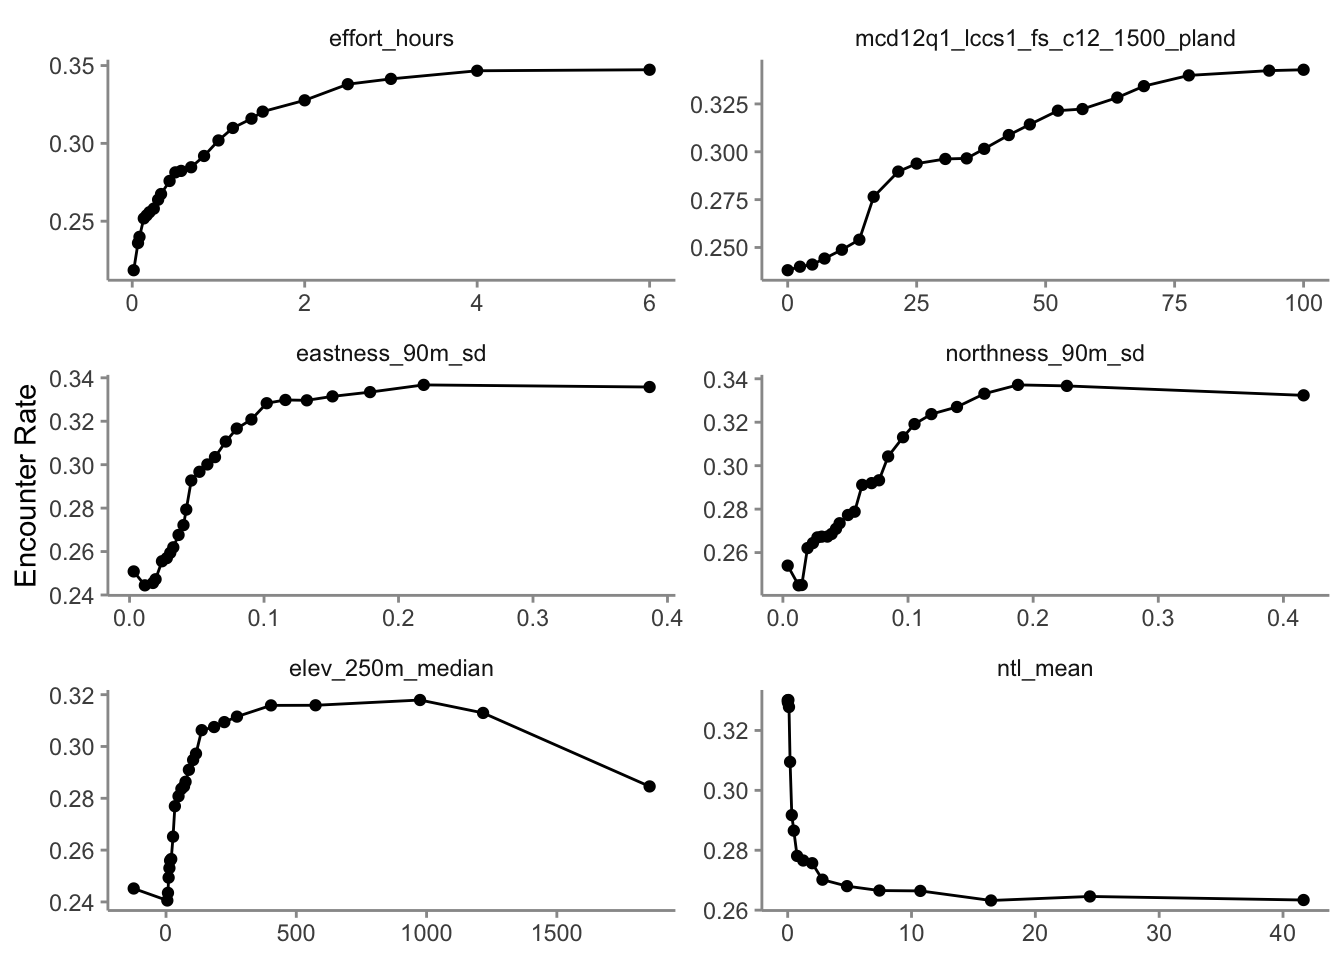
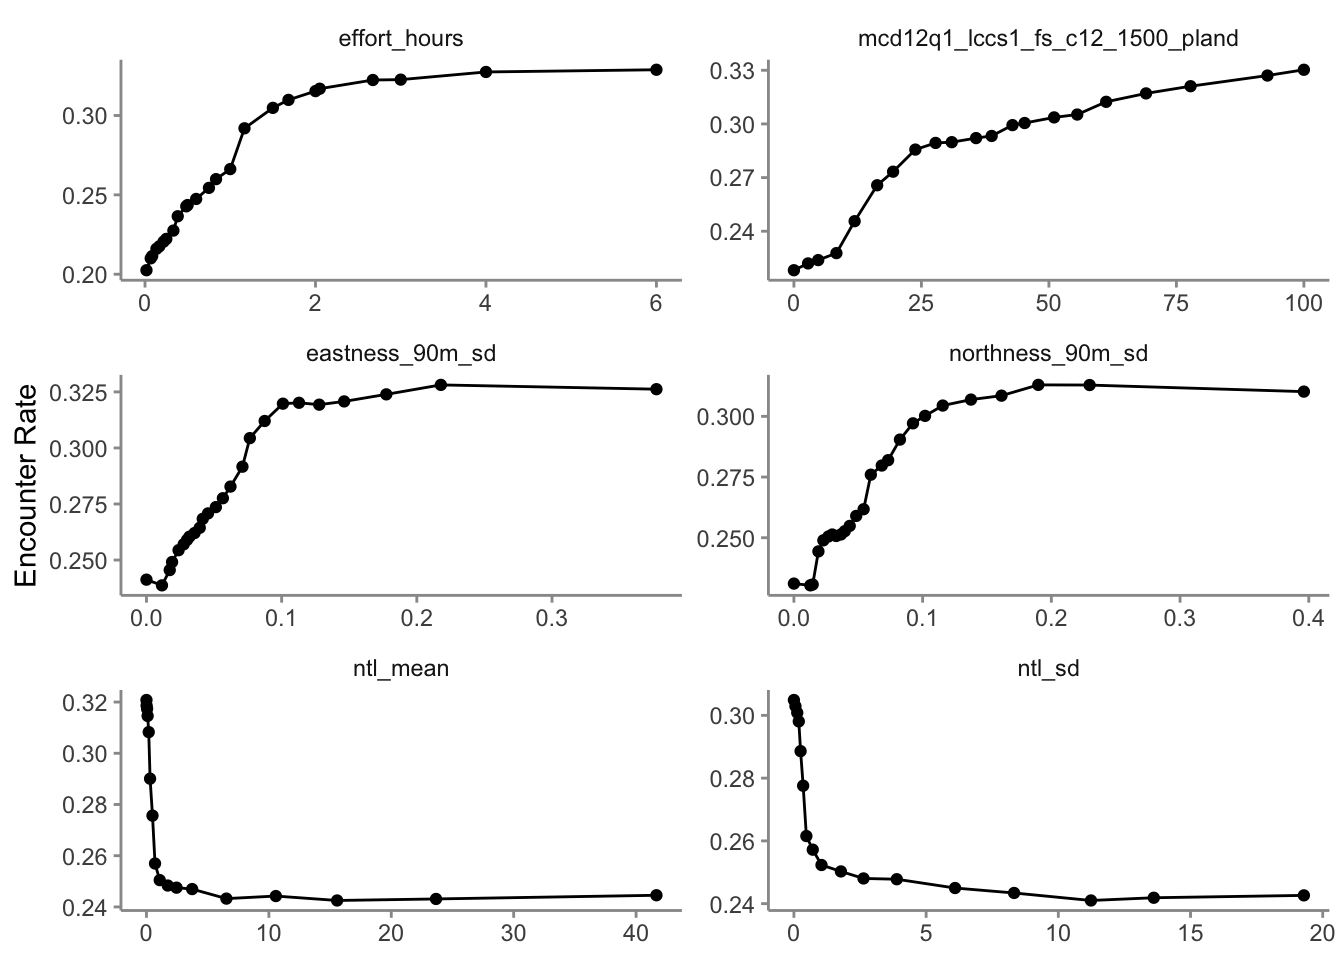
bug fixes

diff --git a/docs/abundance.html b/docs/abundance.html
@@ -281,7 +281,7 @@ code span.wa { color: #60a0b0; font-weight: bold; font-style: italic; } /* Warni
 <div class="sourceCode cell-code" id="cb2"><pre class="sourceCode r code-with-copy"><code class="sourceCode r"><span id="cb2-1"><a href="#cb2-1" aria-hidden="true" tabindex="-1"></a>checklists <span class="ot">&lt;-</span> checklists <span class="sc">%&gt;%</span> </span>
 <span id="cb2-2"><a href="#cb2-2" aria-hidden="true" tabindex="-1"></a>  <span class="fu">filter</span>(</span>
 <span id="cb2-3"><a href="#cb2-3" aria-hidden="true" tabindex="-1"></a>    <span class="co"># last 10 years of data</span></span>
-<span id="cb2-4"><a href="#cb2-4" aria-hidden="true" tabindex="-1"></a>    year <span class="sc">&gt;=</span> <span class="dv">2013</span>,</span>
+<span id="cb2-4"><a href="#cb2-4" aria-hidden="true" tabindex="-1"></a>    year <span class="sc">&gt;=</span> <span class="dv">2007</span>,</span>
 <span id="cb2-5"><a href="#cb2-5" aria-hidden="true" tabindex="-1"></a>    <span class="co"># jan-feb</span></span>
 <span id="cb2-6"><a href="#cb2-6" aria-hidden="true" tabindex="-1"></a>    day_of_year <span class="sc">&gt;=</span> <span class="dv">1</span>, day_of_year <span class="sc">&lt;=</span> <span class="dv">59</span>,</span>
 <span id="cb2-7"><a href="#cb2-7" aria-hidden="true" tabindex="-1"></a>    <span class="co"># effort filters</span></span>
@@ -312,7 +312,7 @@ code span.wa { color: #60a0b0; font-weight: bold; font-style: italic; } /* Warni
 <span id="cb4-3"><a href="#cb4-3" aria-hidden="true" tabindex="-1"></a><span class="fu">table</span>(checklists<span class="sc">$</span>type) <span class="sc">/</span> <span class="fu">nrow</span>(checklists)</span>
 <span id="cb4-4"><a href="#cb4-4" aria-hidden="true" tabindex="-1"></a><span class="co">#&gt; </span></span>
 <span id="cb4-5"><a href="#cb4-5" aria-hidden="true" tabindex="-1"></a><span class="co">#&gt;  test train </span></span>
-<span id="cb4-6"><a href="#cb4-6" aria-hidden="true" tabindex="-1"></a><span class="co">#&gt; 0.208 0.792</span></span></code><button title="Copy to Clipboard" class="code-copy-button"><i class="bi"></i></button></pre></div>
+<span id="cb4-6"><a href="#cb4-6" aria-hidden="true" tabindex="-1"></a><span class="co">#&gt; 0.209 0.791</span></span></code><button title="Copy to Clipboard" class="code-copy-button"><i class="bi"></i></button></pre></div>
 </div>
 </section>
 <section id="sec-abundance-data-sampling" class="level3" data-number="2.1.2">
@@ -327,25 +327,25 @@ code span.wa { color: #60a0b0; font-weight: bold; font-style: italic; } /* Warni
 <div class="cell" data-layout-align="center">
 <div class="sourceCode cell-code" id="cb6"><pre class="sourceCode r code-with-copy"><code class="sourceCode r"><span id="cb6-1"><a href="#cb6-1" aria-hidden="true" tabindex="-1"></a><span class="co"># original data</span></span>
 <span id="cb6-2"><a href="#cb6-2" aria-hidden="true" tabindex="-1"></a><span class="fu">nrow</span>(checklists)</span>
-<span id="cb6-3"><a href="#cb6-3" aria-hidden="true" tabindex="-1"></a><span class="co">#&gt; [1] 6061</span></span>
+<span id="cb6-3"><a href="#cb6-3" aria-hidden="true" tabindex="-1"></a><span class="co">#&gt; [1] 6405</span></span>
 <span id="cb6-4"><a href="#cb6-4" aria-hidden="true" tabindex="-1"></a><span class="fu">count</span>(checklists, obs_detected) <span class="sc">%&gt;%</span> </span>
 <span id="cb6-5"><a href="#cb6-5" aria-hidden="true" tabindex="-1"></a>  <span class="fu">mutate</span>(<span class="at">percent =</span> n <span class="sc">/</span> <span class="fu">sum</span>(n))</span>
 <span id="cb6-6"><a href="#cb6-6" aria-hidden="true" tabindex="-1"></a><span class="co">#&gt; # A tibble: 2 × 3</span></span>
 <span id="cb6-7"><a href="#cb6-7" aria-hidden="true" tabindex="-1"></a><span class="co">#&gt;   obs_detected     n percent</span></span>
 <span id="cb6-8"><a href="#cb6-8" aria-hidden="true" tabindex="-1"></a><span class="co">#&gt;          &lt;int&gt; &lt;int&gt;   &lt;dbl&gt;</span></span>
-<span id="cb6-9"><a href="#cb6-9" aria-hidden="true" tabindex="-1"></a><span class="co">#&gt; 1            0  4408   0.727</span></span>
-<span id="cb6-10"><a href="#cb6-10" aria-hidden="true" tabindex="-1"></a><span class="co">#&gt; 2            1  1653   0.273</span></span>
+<span id="cb6-9"><a href="#cb6-9" aria-hidden="true" tabindex="-1"></a><span class="co">#&gt; 1            0  4630   0.723</span></span>
+<span id="cb6-10"><a href="#cb6-10" aria-hidden="true" tabindex="-1"></a><span class="co">#&gt; 2            1  1775   0.277</span></span>
 <span id="cb6-11"><a href="#cb6-11" aria-hidden="true" tabindex="-1"></a></span>
 <span id="cb6-12"><a href="#cb6-12" aria-hidden="true" tabindex="-1"></a><span class="co"># after sampling</span></span>
 <span id="cb6-13"><a href="#cb6-13" aria-hidden="true" tabindex="-1"></a><span class="fu">nrow</span>(checklists_sampled)</span>
-<span id="cb6-14"><a href="#cb6-14" aria-hidden="true" tabindex="-1"></a><span class="co">#&gt; [1] 3145</span></span>
+<span id="cb6-14"><a href="#cb6-14" aria-hidden="true" tabindex="-1"></a><span class="co">#&gt; [1] 3407</span></span>
 <span id="cb6-15"><a href="#cb6-15" aria-hidden="true" tabindex="-1"></a><span class="fu">count</span>(checklists_sampled, obs_detected) <span class="sc">%&gt;%</span> </span>
 <span id="cb6-16"><a href="#cb6-16" aria-hidden="true" tabindex="-1"></a>  <span class="fu">mutate</span>(<span class="at">percent =</span> n <span class="sc">/</span> <span class="fu">sum</span>(n))</span>
 <span id="cb6-17"><a href="#cb6-17" aria-hidden="true" tabindex="-1"></a><span class="co">#&gt; # A tibble: 2 × 3</span></span>
 <span id="cb6-18"><a href="#cb6-18" aria-hidden="true" tabindex="-1"></a><span class="co">#&gt;   obs_detected     n percent</span></span>
 <span id="cb6-19"><a href="#cb6-19" aria-hidden="true" tabindex="-1"></a><span class="co">#&gt;          &lt;int&gt; &lt;int&gt;   &lt;dbl&gt;</span></span>
-<span id="cb6-20"><a href="#cb6-20" aria-hidden="true" tabindex="-1"></a><span class="co">#&gt; 1            0  2146   0.682</span></span>
-<span id="cb6-21"><a href="#cb6-21" aria-hidden="true" tabindex="-1"></a><span class="co">#&gt; 2            1   999   0.318</span></span></code><button title="Copy to Clipboard" class="code-copy-button"><i class="bi"></i></button></pre></div>
+<span id="cb6-20"><a href="#cb6-20" aria-hidden="true" tabindex="-1"></a><span class="co">#&gt; 1            0  2313   0.679</span></span>
+<span id="cb6-21"><a href="#cb6-21" aria-hidden="true" tabindex="-1"></a><span class="co">#&gt; 2            1  1094   0.321</span></span></code><button title="Copy to Clipboard" class="code-copy-button"><i class="bi"></i></button></pre></div>
 </div>
 <p>So, the case controlled sampling <em>decreased</em> the overall number of checklists by a factor of 1.9, but <em>increased</em> the prevalence of detections. This increase in detections will help the random forests model distinguish where birds are being observed; however, this does affect the prevalence rate of the detections in the data. As a result, the estimated encounter rate based on these subsampled data will be larger than the true encounter rate. When examining the outputs from the models it will be important to recall that we altered the prevalence rate at this stage.</p>
 </section>
@@ -413,7 +413,7 @@ code span.wa { color: #60a0b0; font-weight: bold; font-style: italic; } /* Warni
 <span id="cb11-4"><a href="#cb11-4" aria-hidden="true" tabindex="-1"></a><span class="co"># identify best threshold</span></span>
 <span id="cb11-5"><a href="#cb11-5" aria-hidden="true" tabindex="-1"></a>mcc_f1_summary <span class="ot">&lt;-</span> <span class="fu">summary</span>(mcc_f1)</span>
 <span id="cb11-6"><a href="#cb11-6" aria-hidden="true" tabindex="-1"></a><span class="co">#&gt;  mccf1_metric best_threshold</span></span>
-<span id="cb11-7"><a href="#cb11-7" aria-hidden="true" tabindex="-1"></a><span class="co">#&gt;         0.514          0.498</span></span>
+<span id="cb11-7"><a href="#cb11-7" aria-hidden="true" tabindex="-1"></a><span class="co">#&gt;         0.519          0.511</span></span>
 <span id="cb11-8"><a href="#cb11-8" aria-hidden="true" tabindex="-1"></a>threshold <span class="ot">&lt;-</span> mcc_f1_summary<span class="sc">$</span>best_threshold[<span class="dv">1</span>]</span></code><button title="Copy to Clipboard" class="code-copy-button"><i class="bi"></i></button></pre></div>
 </div>
 </section>
@@ -552,14 +552,14 @@ code span.wa { color: #60a0b0; font-weight: bold; font-style: italic; } /* Warni
 </thead>
 <tbody>
 <tr class="odd">
-<td style="text-align: right;">0.135</td>
-<td style="text-align: right;">0.312</td>
-<td style="text-align: right;">0.732</td>
-<td style="text-align: right;">0.814</td>
-<td style="text-align: right;">0.519</td>
-<td style="text-align: right;">0.565</td>
-<td style="text-align: right;">0.523</td>
-<td style="text-align: right;">0.673</td>
+<td style="text-align: right;">0.129</td>
+<td style="text-align: right;">0.401</td>
+<td style="text-align: right;">0.7</td>
+<td style="text-align: right;">0.845</td>
+<td style="text-align: right;">0.536</td>
+<td style="text-align: right;">0.588</td>
+<td style="text-align: right;">0.537</td>
+<td style="text-align: right;">0.681</td>
 </tr>
 </tbody>
 </table>
@@ -614,10 +614,10 @@ code span.wa { color: #60a0b0; font-weight: bold; font-style: italic; } /* Warni
 </thead>
 <tbody>
 <tr class="odd">
-<td style="text-align: right;">0.472</td>
-<td style="text-align: right;">0.524</td>
-<td style="text-align: right;">0.476</td>
-<td style="text-align: right;">0.532</td>
+<td style="text-align: right;">0.523</td>
+<td style="text-align: right;">0.589</td>
+<td style="text-align: right;">0.529</td>
+<td style="text-align: right;">0.588</td>
 </tr>
 </tbody>
 </table>
@@ -823,7 +823,7 @@ Checkpoint
 <span id="cb22-9"><a href="#cb22-9" aria-hidden="true" tabindex="-1"></a>  <span class="fu">st_drop_geometry</span>()</span>
 <span id="cb22-10"><a href="#cb22-10" aria-hidden="true" tabindex="-1"></a>pred_grid <span class="ot">&lt;-</span> <span class="fu">semi_join</span>(pred_grid_all, in_region, <span class="at">by =</span> <span class="st">"srd_id"</span>)</span></code><button title="Copy to Clipboard" class="code-copy-button"><i class="bi"></i></button></pre></div>
 </div>
-<p>The prediction grid only includes values for the environmental variables, so to make predictions we’ll need to add effort variables to this prediction grid. We’ll make predictions for a <strong>standard eBird checklist</strong>: a 1 km, 2 hour traveling count at the peak time of day for detecting this species. Finally, we’ll make these predictions for Janurary 31, 2021, the middle of our January-February focal window for the latest year for which we have eBird data.</p>
+<p>The prediction grid only includes values for the environmental variables, so to make predictions we’ll need to add effort variables to this prediction grid. We’ll make predictions for a <strong>standard eBird checklist</strong>: a 2 km, 1 hour traveling count at the peak time of day for detecting this species. Finally, we’ll make these predictions for Janurary 31, 2021, the middle of our January-February focal window for the latest year for which we have eBird data.</p>
 <p>To find the time of day with the highest detection probability, we can look for the peak of the partial dependence plot.</p>
 <div class="cell" data-layout-align="center">
 <div class="sourceCode cell-code" id="cb23"><pre class="sourceCode r code-with-copy"><code class="sourceCode r"><span id="cb23-1"><a href="#cb23-1" aria-hidden="true" tabindex="-1"></a><span class="co"># estimate a partial dependence plot for solar noon diff</span></span>
@@ -855,9 +855,9 @@ Checkpoint
 <span id="cb24-3"><a href="#cb24-3" aria-hidden="true" tabindex="-1"></a>         <span class="at">day_of_year =</span> <span class="dv">31</span>,</span>
 <span id="cb24-4"><a href="#cb24-4" aria-hidden="true" tabindex="-1"></a>         <span class="at">solar_noon_diff_mid =</span> <span class="sc">-</span><span class="dv">6</span>,</span>
 <span id="cb24-5"><a href="#cb24-5" aria-hidden="true" tabindex="-1"></a>         <span class="at">is_stationary =</span> <span class="dv">0</span>,</span>
-<span id="cb24-6"><a href="#cb24-6" aria-hidden="true" tabindex="-1"></a>         <span class="at">effort_hours =</span> <span class="dv">2</span>,</span>
-<span id="cb24-7"><a href="#cb24-7" aria-hidden="true" tabindex="-1"></a>         <span class="at">effort_distance_km =</span> <span class="dv">1</span>,</span>
-<span id="cb24-8"><a href="#cb24-8" aria-hidden="true" tabindex="-1"></a>         <span class="at">effort_speed_kmph =</span> <span class="fl">0.5</span>,</span>
+<span id="cb24-6"><a href="#cb24-6" aria-hidden="true" tabindex="-1"></a>         <span class="at">effort_hours =</span> <span class="dv">1</span>,</span>
+<span id="cb24-7"><a href="#cb24-7" aria-hidden="true" tabindex="-1"></a>         <span class="at">effort_distance_km =</span> <span class="dv">2</span>,</span>
+<span id="cb24-8"><a href="#cb24-8" aria-hidden="true" tabindex="-1"></a>         <span class="at">effort_speed_kmph =</span> <span class="dv">2</span>,</span>
 <span id="cb24-9"><a href="#cb24-9" aria-hidden="true" tabindex="-1"></a>         <span class="at">number_observers =</span> <span class="dv">1</span>)</span></code><button title="Copy to Clipboard" class="code-copy-button"><i class="bi"></i></button></pre></div>
 </div>
 <p>Now we can estimate calibrated encounter rate, count, and abundance for each point on the prediction grid. We also include a binary estimate of the range boundary.</p>

diff --git a/docs/ebird.html b/docs/ebird.html
@@ -528,7 +528,7 @@ Tip
 <span id="cb9-32"><a href="#cb9-32" aria-hidden="true" tabindex="-1"></a><span class="co"># ebird observations</span></span>
 <span id="cb9-33"><a href="#cb9-33" aria-hidden="true" tabindex="-1"></a><span class="co"># all</span></span>
 <span id="cb9-34"><a href="#cb9-34" aria-hidden="true" tabindex="-1"></a><span class="fu">plot</span>(chutap1_sf,</span>
-<span id="cb9-35"><a href="#cb9-35" aria-hidden="true" tabindex="-1"></a>     <span class="at">pch =</span> <span class="dv">19</span>, <span class="at">cex =</span> <span class="fl">0.1</span>, <span class="at">col =</span> scales<span class="sc">::</span><span class="fu">alpha</span>(<span class="st">"#555555"</span>, <span class="fl">0.25</span>),</span>
+<span id="cb9-35"><a href="#cb9-35" aria-hidden="true" tabindex="-1"></a>     <span class="at">pch =</span> <span class="dv">19</span>, <span class="at">cex =</span> <span class="fl">0.1</span>, <span class="at">col =</span> scales<span class="sc">::</span><span class="fu">alpha</span>(<span class="st">"#555555"</span>, <span class="dv">4</span>),</span>
 <span id="cb9-36"><a href="#cb9-36" aria-hidden="true" tabindex="-1"></a>     <span class="at">add =</span> <span class="cn">TRUE</span>)</span>
 <span id="cb9-37"><a href="#cb9-37" aria-hidden="true" tabindex="-1"></a><span class="co">#&gt; Warning in plot.sf(chutap1_sf, pch = 19, cex = 0.1, col =</span></span>
 <span id="cb9-38"><a href="#cb9-38" aria-hidden="true" tabindex="-1"></a><span class="co">#&gt; scales::alpha("#555555", : ignoring all but the first attribute</span></span>
@@ -803,13 +803,13 @@ Solution
 <span id="cb17-6"><a href="#cb17-6" aria-hidden="true" tabindex="-1"></a><span class="fu">nrow</span>(chutap1_zf)</span>
 <span id="cb17-7"><a href="#cb17-7" aria-hidden="true" tabindex="-1"></a><span class="co">#&gt; [1] 186906</span></span>
 <span id="cb17-8"><a href="#cb17-8" aria-hidden="true" tabindex="-1"></a><span class="fu">nrow</span>(chutap1_sampled)</span>
-<span id="cb17-9"><a href="#cb17-9" aria-hidden="true" tabindex="-1"></a><span class="co">#&gt; [1] 77176</span></span>
+<span id="cb17-9"><a href="#cb17-9" aria-hidden="true" tabindex="-1"></a><span class="co">#&gt; [1] 77156</span></span>
 <span id="cb17-10"><a href="#cb17-10" aria-hidden="true" tabindex="-1"></a></span>
 <span id="cb17-11"><a href="#cb17-11" aria-hidden="true" tabindex="-1"></a><span class="co"># how has prevalence changed</span></span>
 <span id="cb17-12"><a href="#cb17-12" aria-hidden="true" tabindex="-1"></a><span class="fu">mean</span>(chutap1_zf<span class="sc">$</span>obs_detected)</span>
 <span id="cb17-13"><a href="#cb17-13" aria-hidden="true" tabindex="-1"></a><span class="co">#&gt; [1] 0.0518</span></span>
 <span id="cb17-14"><a href="#cb17-14" aria-hidden="true" tabindex="-1"></a><span class="fu">mean</span>(chutap1_sampled<span class="sc">$</span>obs_detected)</span>
-<span id="cb17-15"><a href="#cb17-15" aria-hidden="true" tabindex="-1"></a><span class="co">#&gt; [1] 0.0726</span></span></code><button title="Copy to Clipboard" class="code-copy-button"><i class="bi"></i></button></pre></div>
+<span id="cb17-15"><a href="#cb17-15" aria-hidden="true" tabindex="-1"></a><span class="co">#&gt; [1] 0.0725</span></span></code><button title="Copy to Clipboard" class="code-copy-button"><i class="bi"></i></button></pre></div>
 </div>
 <p>So, after sampling, we’re left with 41% of the observations we started with, but the spatial and temporal bias has been significantly reduced.</p>
 <p>We now have the data and tools necessary to model relative abundance using eBird data, which will be the focus of <a href="abundance.html">Lesson&nbsp;<span>2</span></a>.</p>
